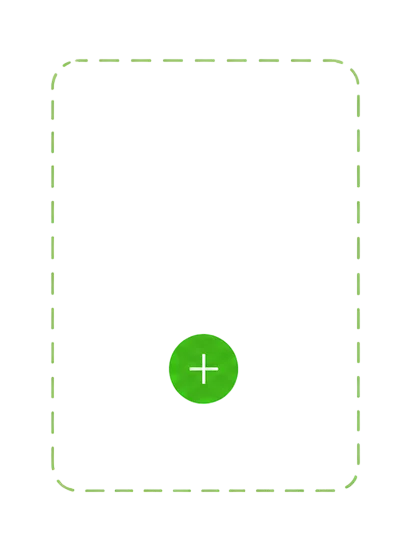
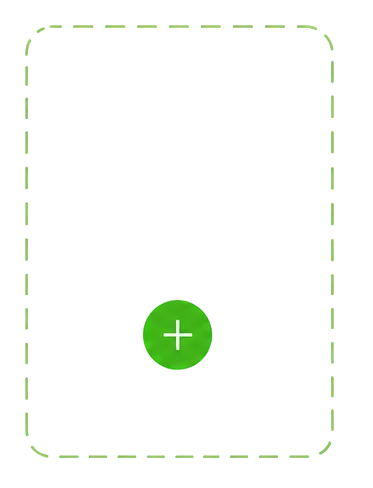
cssChanges

diff --git a/client/src/components/mainpage.module.css b/client/src/components/mainpage.module.css
@@ -243,10 +243,10 @@
 .plantNote::before {
   content: "";
   position: absolute;
-  inset: 0;
+  inset: -10px;
   z-index: -1;
   background-image: var(--note-image);
-  background-size: contain;
+  background-size: 100% 100%;
   background-repeat: no-repeat;
   background-position: center;
   filter: none;
@@ -295,6 +295,7 @@
   flex-direction: column;
   justify-content: center;  
   align-items: center;
+  max-width: 80vw;
 }
 
 .notesRow {
@@ -327,4 +328,11 @@
   align-items: center;
   text-align: center;
   z-index: 1;
+}
+
+.mainWrapper {
+  align-items: center;
+  display: flex;
+  flex-direction: column;
+  gap: 5vh;
 }

diff --git a/client/src/components/MainPage.jsx b/client/src/components/MainPage.jsx
@@ -27,6 +27,7 @@ const lessonMouseDown = (lesson) => {
 const MainPage = () => {
   return (
     <>
+    <div className={s.mainWrapper}>
       <section className={s.main}>
         <div className={s.rowWrapper}>
         <div className={s.notesRow}>
@@ -214,6 +215,7 @@ const MainPage = () => {
           </div>
           
       </section>
+          </div>
     </>
   )
 }